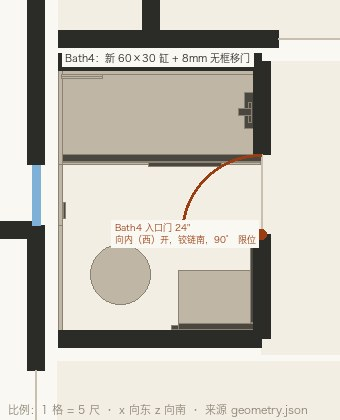
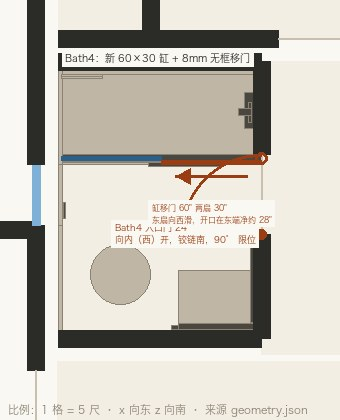
Crew UAT: bath plans show two-panel slider travel and openings; primary plan door label matches the west-face door

Changed region(s): [[0.1765, 0.3405, 0.7941, 0.4333], [0.4412, 0.4643, 0.7941, 0.5571]]

diff --git a/UAT.html b/UAT.html
@@ -144,7 +144,7 @@ li.own,span.own{color:#6b5d3a}li.own::marker{color:#c9b48a}
 
 <div class="fig wide"><figure><img src="uat/tile-B3.jpg" alt=""><figcaption><b>Bath3 · 四面墙贴砖范围</b> — 淋浴 34×60 贴共墙：共墙 60" 段 + 北墙 34" 段砖到顶，南端返墙朝淋浴一面贴砖，其余全高浴室级 PT-01；龛 24×28 在共墙砖段。</figcaption></figure></div>
 
-<div class="fig "><figure><img src="uat/bath-plan-west.jpg" alt=""><figcaption><b>西翼三卫平面（入口门位与开向：弧线 = 开门方向，圆点 = 铰链）</b> — 主卫 / Bath2 / Bath3；湿区 24×48 到顶、地砖 Andover 12×24；两淋浴背靠背贴共墙（Bath2 东北角、Bath3 西北角）；Bath3 盆柜东墙门洞以南、马桶贴共墙面朝东；Bath3 门洞按建筑图 z 42'1"–44'1"（B7）。</figcaption></figure></div>
+<div class="fig "><figure><img src="uat/bath-plan-west.jpg" alt=""><figcaption><b>西翼三卫平面（入口门：弧线 = 开门方向、圆点 = 铰链；推拉门：蓝 = 固定扇、橙 = 活动扇 + 滑向箭头、圈 = 开口端）</b> — 主卫 / Bath2 / Bath3；湿区 24×48 到顶、地砖 Andover 12×24；两淋浴背靠背贴共墙（Bath2 东北角、Bath3 西北角）；Bath3 盆柜东墙门洞以南、马桶贴共墙面朝东；Bath3 门洞按建筑图 z 42'1"–44'1"（B7）。</figcaption></figure></div>
 
 <h4>本区要点</h4><ul class="bul"><li><b>Bath2 淋浴</b>：48×40 东北角贴共墙，玻璃面朝南 + 西侧 40" 固定返板，2" 素面石英低挡水，48" 半无框哑黑推拉门顶轨 76"（门净开口 ≥22"）；阀在共墙 44"、中心距北墙 26"。</li><li><b>Bath3 淋浴</b>：改南北长 34×60，贴共墙从北墙到 z 46'0"；2" 素面石英低挡水；阀 44" 与固定花洒 80" 在北墙同一竖线（淋浴中线 x≈10'2"），滑杆在阀东 8"；龛 24×28 在共墙（z 43'8"–45'8"）。</li><li><b>Bath3 换位</b>：48" 盆柜改东墙门洞以南，30×36 镜（44–80"）+ 24" 灯条随到东墙；马桶贴共墙面朝东，中心距南墙 16"、距淋浴返墙砖面 ≥15"（门洞位置先量，B7）。</li><li><b>共墙</b>：全高岩棉；两淋浴各自 ½" 支管。</li><li><b>壁龛 ×2</b>：24×28、底 34" 顶 62"，石英搁板落 48" 缝；Bath2 北墙中跨，Bath3 共墙 z 43'8"–45'8"。</li><li><b>南窗 ×2</b>：既有磨砂玻璃保留，加透明安全膜；窗洞返边贴墙砖余料，无木窗台。</li><li><b>墙砖</b>：Bath2 北墙（从门套到共墙）+ 共墙整面到顶；Bath3 北墙 + 共墙整面到顶、返墙三面贴砖；其余墙为全高干区墙面（见 §1 四卫干区墙面）；窗洞返边与窗台贴砖。</li></ul>
 
@@ -157,7 +157,7 @@ li.own,span.own{color:#6b5d3a}li.own::marker{color:#c9b48a}
 
 <div class="fig wide"><figure><img src="uat/tile-B4.jpg" alt=""><figcaption><b>Bath4 · 四面墙贴砖范围</b> — 缸区三面（北长墙 61" 整面 + 东、西端墙各 29" 到移门面）砖到顶，其余全高浴室级 PT-01；Kerdi 预制龛在北长墙西端。</figcaption></figure></div>
 
-<div class="fig three"><figure><img src="uat/bath-plan-4.jpg" alt=""><figcaption><b>Bath4 平面（入口门位与开向：弧线 = 开门方向，圆点 = 铰链）</b> — 60×30 缸 + 8mm 无框移门；24" 入口门向内开、铰链南、90° 限位。</figcaption></figure></div>
+<div class="fig three"><figure><img src="uat/bath-plan-4.jpg" alt=""><figcaption><b>Bath4 平面（入口门：弧线 = 开门方向、圆点 = 铰链；缸移门：蓝 = 固定扇、橙 = 活动扇 + 滑向箭头、圈 = 开口端）</b> — 60×30 缸 + 8mm 无框移门两扇 30"，东扇向西滑；24" 入口门向内开、铰链南、90° 限位。</figcaption></figure></div>
 
 <h4>本区要点</h4><ul class="bul"><li><b>缸</b>：60×30 北端，排水东端；8mm 无框移门哑黑顶轨顶 80"，活动扇东端。</li><li><b>阀 / 花洒 / 出水嘴</b>：东端墙；过厅侧 12×12 隐框检修板 PT-01；西端外墙零穿孔。</li><li><b>壁龛</b>：Kerdi-Board 12×20 预制，北长墙底 28½"。</li><li><b>盆柜 / 镜</b>：30" 悬挂单盆柜柜底 15"；24×36 细黑框镜挂 44–80" + 24" 哑黑灯条底 80"（坐镜顶）。</li><li><b>砖 / 灯</b>：缸背长墙、西墙整面 + 东墙到门套 24×48 到顶；盆柜墙与东墙门南段为全高干区墙面（见 §1 四卫干区墙面）；湿区筒灯 1 + 一般 1；排风 110 CFM。</li></ul>
 

diff --git a/index.html b/index.html
@@ -144,7 +144,7 @@ li.own,span.own{color:#6b5d3a}li.own::marker{color:#c9b48a}
 
 <div class="fig wide"><figure><img src="uat/tile-B3.jpg" alt=""><figcaption><b>Bath3 · 四面墙贴砖范围</b> — 淋浴 34×60 贴共墙：共墙 60" 段 + 北墙 34" 段砖到顶，南端返墙朝淋浴一面贴砖，其余全高浴室级 PT-01；龛 24×28 在共墙砖段。</figcaption></figure></div>
 
-<div class="fig "><figure><img src="uat/bath-plan-west.jpg" alt=""><figcaption><b>西翼三卫平面（入口门位与开向：弧线 = 开门方向，圆点 = 铰链）</b> — 主卫 / Bath2 / Bath3；湿区 24×48 到顶、地砖 Andover 12×24；两淋浴背靠背贴共墙（Bath2 东北角、Bath3 西北角）；Bath3 盆柜东墙门洞以南、马桶贴共墙面朝东；Bath3 门洞按建筑图 z 42'1"–44'1"（B7）。</figcaption></figure></div>
+<div class="fig "><figure><img src="uat/bath-plan-west.jpg" alt=""><figcaption><b>西翼三卫平面（入口门：弧线 = 开门方向、圆点 = 铰链；推拉门：蓝 = 固定扇、橙 = 活动扇 + 滑向箭头、圈 = 开口端）</b> — 主卫 / Bath2 / Bath3；湿区 24×48 到顶、地砖 Andover 12×24；两淋浴背靠背贴共墙（Bath2 东北角、Bath3 西北角）；Bath3 盆柜东墙门洞以南、马桶贴共墙面朝东；Bath3 门洞按建筑图 z 42'1"–44'1"（B7）。</figcaption></figure></div>
 
 <h4>本区要点</h4><ul class="bul"><li><b>Bath2 淋浴</b>：48×40 东北角贴共墙，玻璃面朝南 + 西侧 40" 固定返板，2" 素面石英低挡水，48" 半无框哑黑推拉门顶轨 76"（门净开口 ≥22"）；阀在共墙 44"、中心距北墙 26"。</li><li><b>Bath3 淋浴</b>：改南北长 34×60，贴共墙从北墙到 z 46'0"；2" 素面石英低挡水；阀 44" 与固定花洒 80" 在北墙同一竖线（淋浴中线 x≈10'2"），滑杆在阀东 8"；龛 24×28 在共墙（z 43'8"–45'8"）。</li><li><b>Bath3 换位</b>：48" 盆柜改东墙门洞以南，30×36 镜（44–80"）+ 24" 灯条随到东墙；马桶贴共墙面朝东，中心距南墙 16"、距淋浴返墙砖面 ≥15"（门洞位置先量，B7）。</li><li><b>共墙</b>：全高岩棉；两淋浴各自 ½" 支管。</li><li><b>壁龛 ×2</b>：24×28、底 34" 顶 62"，石英搁板落 48" 缝；Bath2 北墙中跨，Bath3 共墙 z 43'8"–45'8"。</li><li><b>南窗 ×2</b>：既有磨砂玻璃保留，加透明安全膜；窗洞返边贴墙砖余料，无木窗台。</li><li><b>墙砖</b>：Bath2 北墙（从门套到共墙）+ 共墙整面到顶；Bath3 北墙 + 共墙整面到顶、返墙三面贴砖；其余墙为全高干区墙面（见 §1 四卫干区墙面）；窗洞返边与窗台贴砖。</li></ul>
 
@@ -157,7 +157,7 @@ li.own,span.own{color:#6b5d3a}li.own::marker{color:#c9b48a}
 
 <div class="fig wide"><figure><img src="uat/tile-B4.jpg" alt=""><figcaption><b>Bath4 · 四面墙贴砖范围</b> — 缸区三面（北长墙 61" 整面 + 东、西端墙各 29" 到移门面）砖到顶，其余全高浴室级 PT-01；Kerdi 预制龛在北长墙西端。</figcaption></figure></div>
 
-<div class="fig three"><figure><img src="uat/bath-plan-4.jpg" alt=""><figcaption><b>Bath4 平面（入口门位与开向：弧线 = 开门方向，圆点 = 铰链）</b> — 60×30 缸 + 8mm 无框移门；24" 入口门向内开、铰链南、90° 限位。</figcaption></figure></div>
+<div class="fig three"><figure><img src="uat/bath-plan-4.jpg" alt=""><figcaption><b>Bath4 平面（入口门：弧线 = 开门方向、圆点 = 铰链；缸移门：蓝 = 固定扇、橙 = 活动扇 + 滑向箭头、圈 = 开口端）</b> — 60×30 缸 + 8mm 无框移门两扇 30"，东扇向西滑；24" 入口门向内开、铰链南、90° 限位。</figcaption></figure></div>
 
 <h4>本区要点</h4><ul class="bul"><li><b>缸</b>：60×30 北端，排水东端；8mm 无框移门哑黑顶轨顶 80"，活动扇东端。</li><li><b>阀 / 花洒 / 出水嘴</b>：东端墙；过厅侧 12×12 隐框检修板 PT-01；西端外墙零穿孔。</li><li><b>壁龛</b>：Kerdi-Board 12×20 预制，北长墙底 28½"。</li><li><b>盆柜 / 镜</b>：30" 悬挂单盆柜柜底 15"；24×36 细黑框镜挂 44–80" + 24" 哑黑灯条底 80"（坐镜顶）。</li><li><b>砖 / 灯</b>：缸背长墙、西墙整面 + 东墙到门套 24×48 到顶；盆柜墙与东墙门南段为全高干区墙面（见 §1 四卫干区墙面）；湿区筒灯 1 + 一般 1；排风 110 CFM。</li></ul>
 
